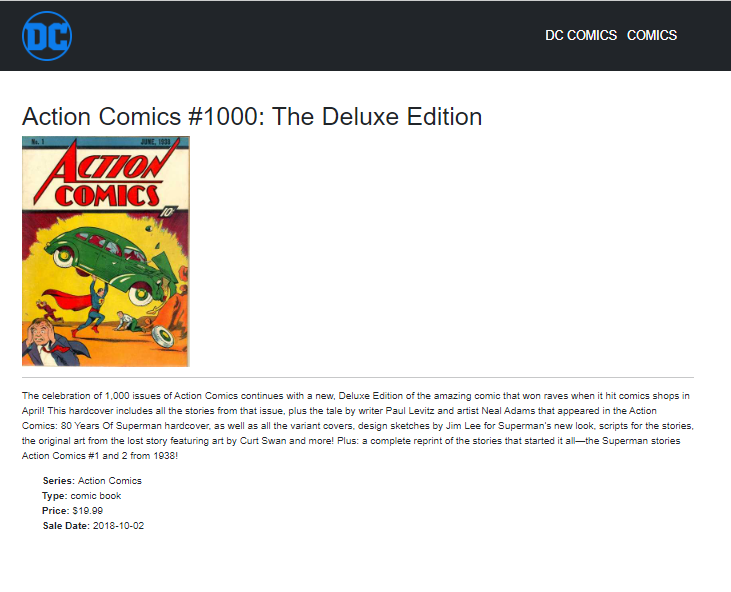
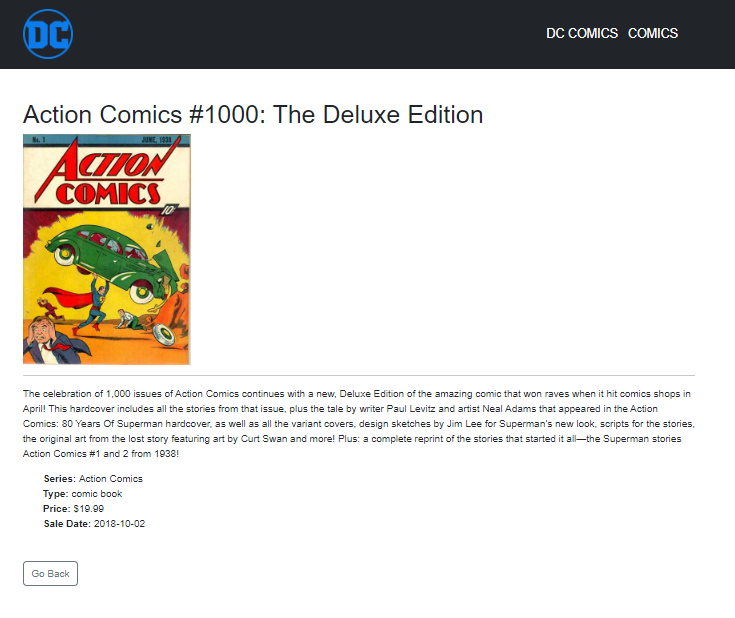
add: go-back-btn

Changed region(s): [[0.0301, 0.152, 0.9631, 0.973], [0.0, 0.0, 1.0, 0.1216]]

diff --git a/resources/views/comics/show.blade.php b/resources/views/comics/show.blade.php
@@ -26,5 +26,9 @@
                 {{ $comic->sale_date }}
             </li>
         </ul>
+
+        <div class="text-start my-5">
+            <a class="btn btn-outline-secondary" href="{{ route('comics.index') }}">Go Back</a>
+        </div>
     </div>    
 @endsection
